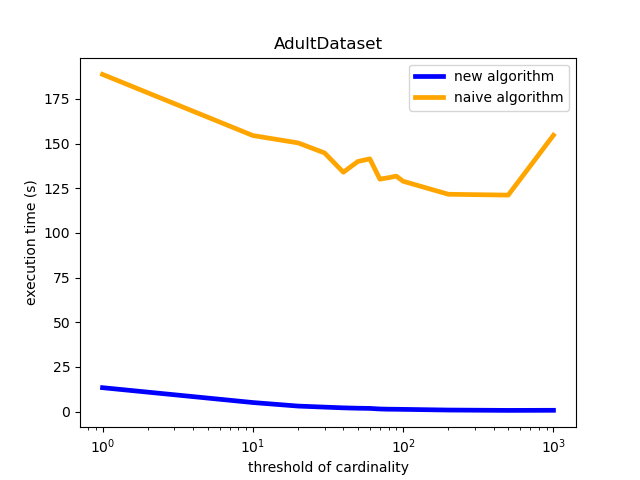
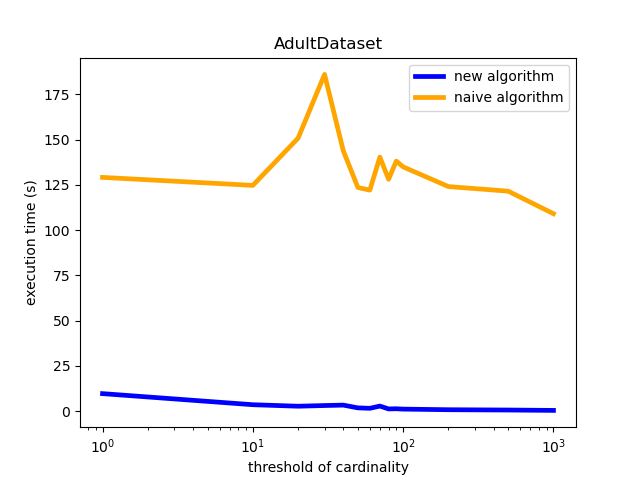
20210121

diff --git a/Coding/Experiments/AdultData/data_size.py b/Coding/Experiments/AdultData/data_size.py
@@ -129,7 +129,7 @@ plt.show()
 fig, ax = plt.subplots()
 plt.plot(data_sizes, num_patterns_checked1, label="new algorithm", color='blue', linewidth=3.4)
 plt.plot(data_sizes, num_patterns_checked2, label="naive algorithm", color='orange', linewidth=3.4)
-plt.xlabel('data size')
+plt.xlabel('data size (K)')
 plt.xticks([40000, 50000, 60000, 70000, 80000, 90000, 100000])
 ax.xaxis.set_major_formatter(FuncFormatter(thousands_formatter))
 plt.ylabel('number of cardinality calculations (K)')

diff --git a/Coding/Experiments/AdultData/Thc.py b/Coding/Experiments/AdultData/Thc.py
@@ -64,7 +64,7 @@ num_pattern_skipped_whole_c1 = list()
 num_pattern_skipped_whole_c2 = list()
 num_patterns_found = list()
 patterns_found = list()
-num_loops = 5
+num_loops = 1
 
 for thc in Thc_list:
     print("Thc = {}".format(thc))

diff --git a/Notes/progress.md b/Notes/progress.md
@@ -147,3 +147,25 @@ check if the output set is empty
 | compas |  done  | running  |  done, need explain  |    |
 | credit card |     |    |     |    |
 
+## 2021.1.20 Meeting with Yuval
+
+1. check for AdultDataset/tha_calculations. Why it decreases from 0.05 to 0.1
+
+2. thc_time for AdultDataset. Why it goes up finally?
+
+3. Other datasets have similar figures?
+
+4. Start to write paper.
+
+5. Prove no polynomial time. Similar to Theorem 1 in Coverage paper.
+- Have a similar theory and prove it.
+- Read Paper 'Fairness definitions explained'. See which definitions can be applied in our paper.
+This is a better task! Which definitions can we support and what to do in order to support them.
+
+6. Generate examples from each dataset. 
+
+7. Complexity of algorithm. We can do it later.
+
+
+
+
